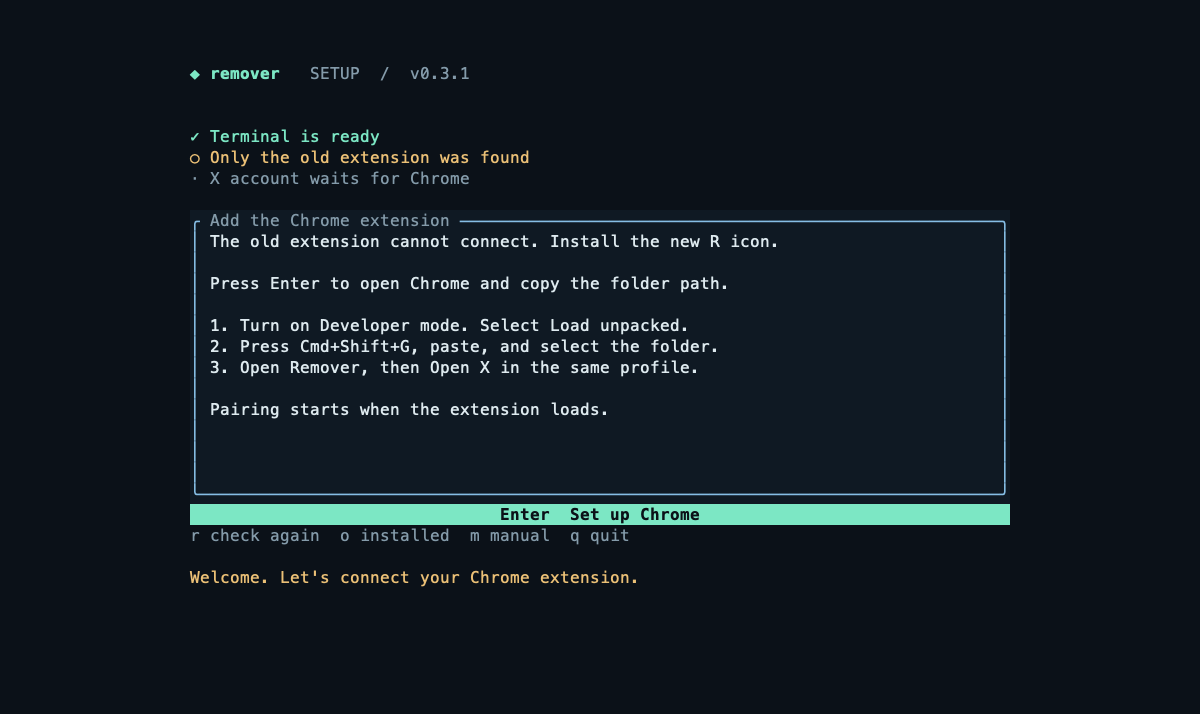
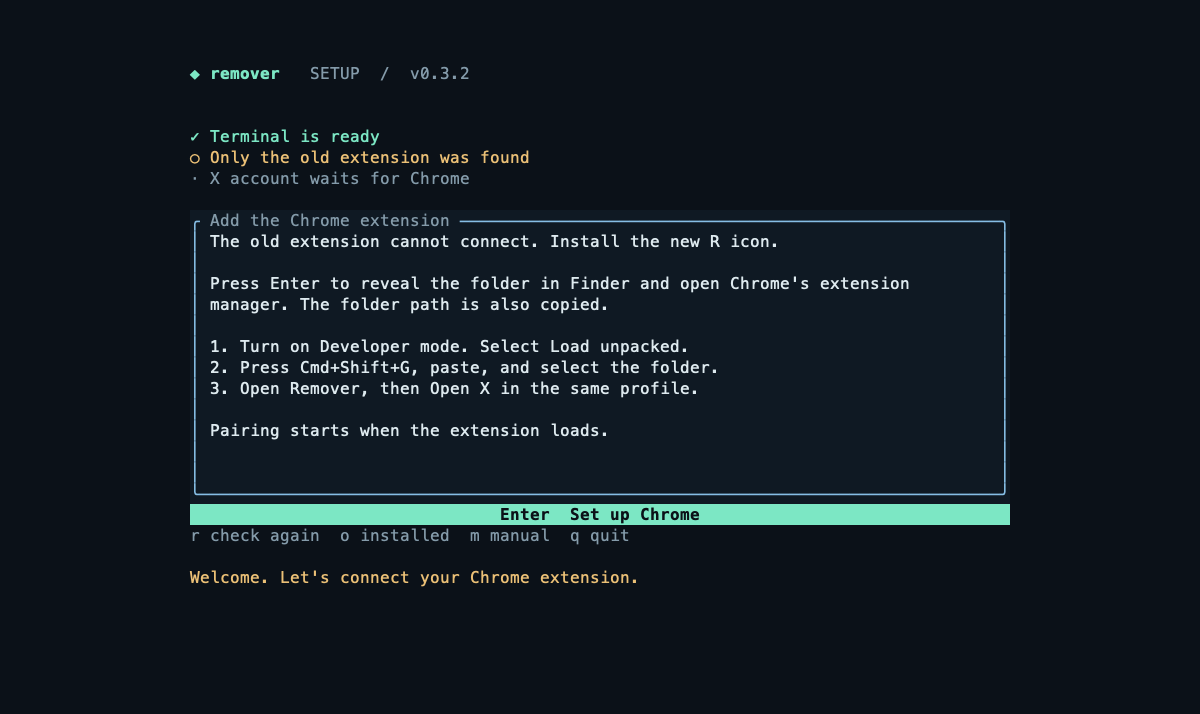
Open Finder and Chrome extensions together during setup

Changed region(s): [[0.185, 0.3697, 0.74, 0.6162]]

diff --git a/src/setup.rs b/src/setup.rs
@@ -104,6 +104,23 @@ pub fn installed_extension(extension: &Path) -> Installation {
 
 pub async fn open_install(extension: &Path) -> Result<()> {
     copy(extension.display().to_string()).await?;
+    #[cfg(target_os = "macos")]
+    {
+        let folder = extension.to_path_buf();
+        let status = tokio::task::spawn_blocking(move || {
+            std::process::Command::new("/usr/bin/open")
+                .arg("-R")
+                .arg(folder)
+                .stdout(std::process::Stdio::null())
+                .stderr(std::process::Stdio::null())
+                .status()
+        })
+        .await??;
+        anyhow::ensure!(
+            status.success(),
+            "Could not reveal the extension folder in Finder"
+        );
+    }
     open_chrome("chrome://extensions".into()).await
 }
 
@@ -350,7 +367,7 @@ pub fn render(frame: &mut Frame, app: &mut App) {
         (
             " Add the Chrome extension ",
             format!(
-                "{}Press Enter to open Chrome and copy the folder path.\n\n1. Turn on Developer mode. Select Load unpacked.\n2. Press Cmd+Shift+G, paste, and select the folder.\n3. Open Remover, then Open X in the same profile.\n\nPairing starts when the extension loads.",
+                "{}Press Enter to reveal the folder in Finder and open Chrome's extension manager. The folder path is also copied.\n\n1. Turn on Developer mode. Select Load unpacked.\n2. Press Cmd+Shift+G, paste, and select the folder.\n3. Open Remover, then Open X in the same profile.\n\nPairing starts when the extension loads.",
                 if setup.installation == Installation::LegacyOnly {
                     "The old extension cannot connect. Install the new R icon.\n\n"
                 } else {

diff --git a/src/app.rs b/src/app.rs
@@ -829,7 +829,7 @@ impl App {
             KeyCode::Char('i') if self.sender.is_none() => {
                 setup.go(Step::Install);
                 crate::setup::open_install(&setup.extension_dir).await?;
-                self.log("Folder copied. In Chrome, Load unpacked or Reload remover. Waiting for connection.");
+                self.log("Finder and Chrome opened. Load unpacked or Reload Remover. Waiting for connection.");
             }
             KeyCode::Char('o') => {
                 crate::setup::open_options(&setup.extension_dir).await?;
@@ -873,7 +873,7 @@ impl App {
                     }
                 } else if setup.step == Step::Install {
                     crate::setup::open_install(&setup.extension_dir).await?;
-                    self.log("Folder copied. Load unpacked in Chrome. Waiting for the extension to connect.");
+                    self.log("Finder and Chrome opened. Load unpacked in Chrome. The folder path is copied.");
                 } else {
                     crate::setup::open_options(&setup.extension_dir).await?;
                     self.log("Select Connect terminal in the extension. Waiting for connection.");

diff --git a/src/ui.rs b/src/ui.rs
@@ -1225,7 +1225,7 @@ pub fn render_worker(
             Line::from(""),
             Line::from("Your saved queue is waiting. No X requests can run while disconnected."),
             Line::from(""),
-            Line::from("1. Press i to open Chrome and copy the extension folder."),
+            Line::from("1. Press i to reveal the folder in Finder and open Chrome extensions."),
             Line::from("2. Enable Developer mode. Select Load unpacked."),
             Line::from("3. Press Cmd+Shift+G, paste the folder, and select it."),
             Line::from("4. Open Remover (R icon), then Connect terminal."),

diff --git a/docs/RELEASE_NOTES.md b/docs/RELEASE_NOTES.md
@@ -1,11 +1,5 @@
-# Remover 0.3.1
+# Remover 0.3.2
 
-Startup now checks the live Chrome connection instead of assuming a saved pairing means the extension is still installed.
+The Set up Chrome action now reveals the extension folder in Finder and opens Chrome’s extension manager. It also copies the folder path for Load unpacked. The same action is available from a disconnected worker with the i key.
 
-The setup guide identifies current or old extension registrations and provides installation, pairing, and X sign-in steps. Enter opens Chrome and copies the correct folder path; r checks installation again. The cleanup screen appears only after live account confirmation. Offline background jobs also show connection instructions.
-
-Pairing from the former default installation path is repaired automatically. Cleanup history and queues are preserved. Custom manually paired extensions are not rebound automatically.
-
-The public installer no longer requires GitHub login. Installation does not approve a cleanup pass.
-
-The README now leads with the purpose, setup steps, and cleanup controls. The root changelog and reference-notices document were removed; required dependency license texts remain bundled.
+Onboarding instructions and the README now explain both windows. Pairing and cleanup approval are unchanged.

diff --git a/README.md b/README.md
@@ -52,7 +52,7 @@ Keep the terminal open. Remover checks for the Chrome extension and shows the ne
 
 ### 3. Add the Chrome extension
 
-1. Press **Enter** in the setup guide. It opens Chrome's extension page and copies the correct folder path.
+1. Press **Enter** in the setup guide. It reveals the extension folder in **Finder**, opens **Chrome's extension manager**, and copies the folder path.
 2. Turn on **Developer mode**. Select **Load unpacked**.
 3. Press **Cmd+Shift+G**, paste the copied path, and select the folder.
 4. Open **Remover**, the extension with the **R** icon. Its connection page pairs with the terminal automatically.
